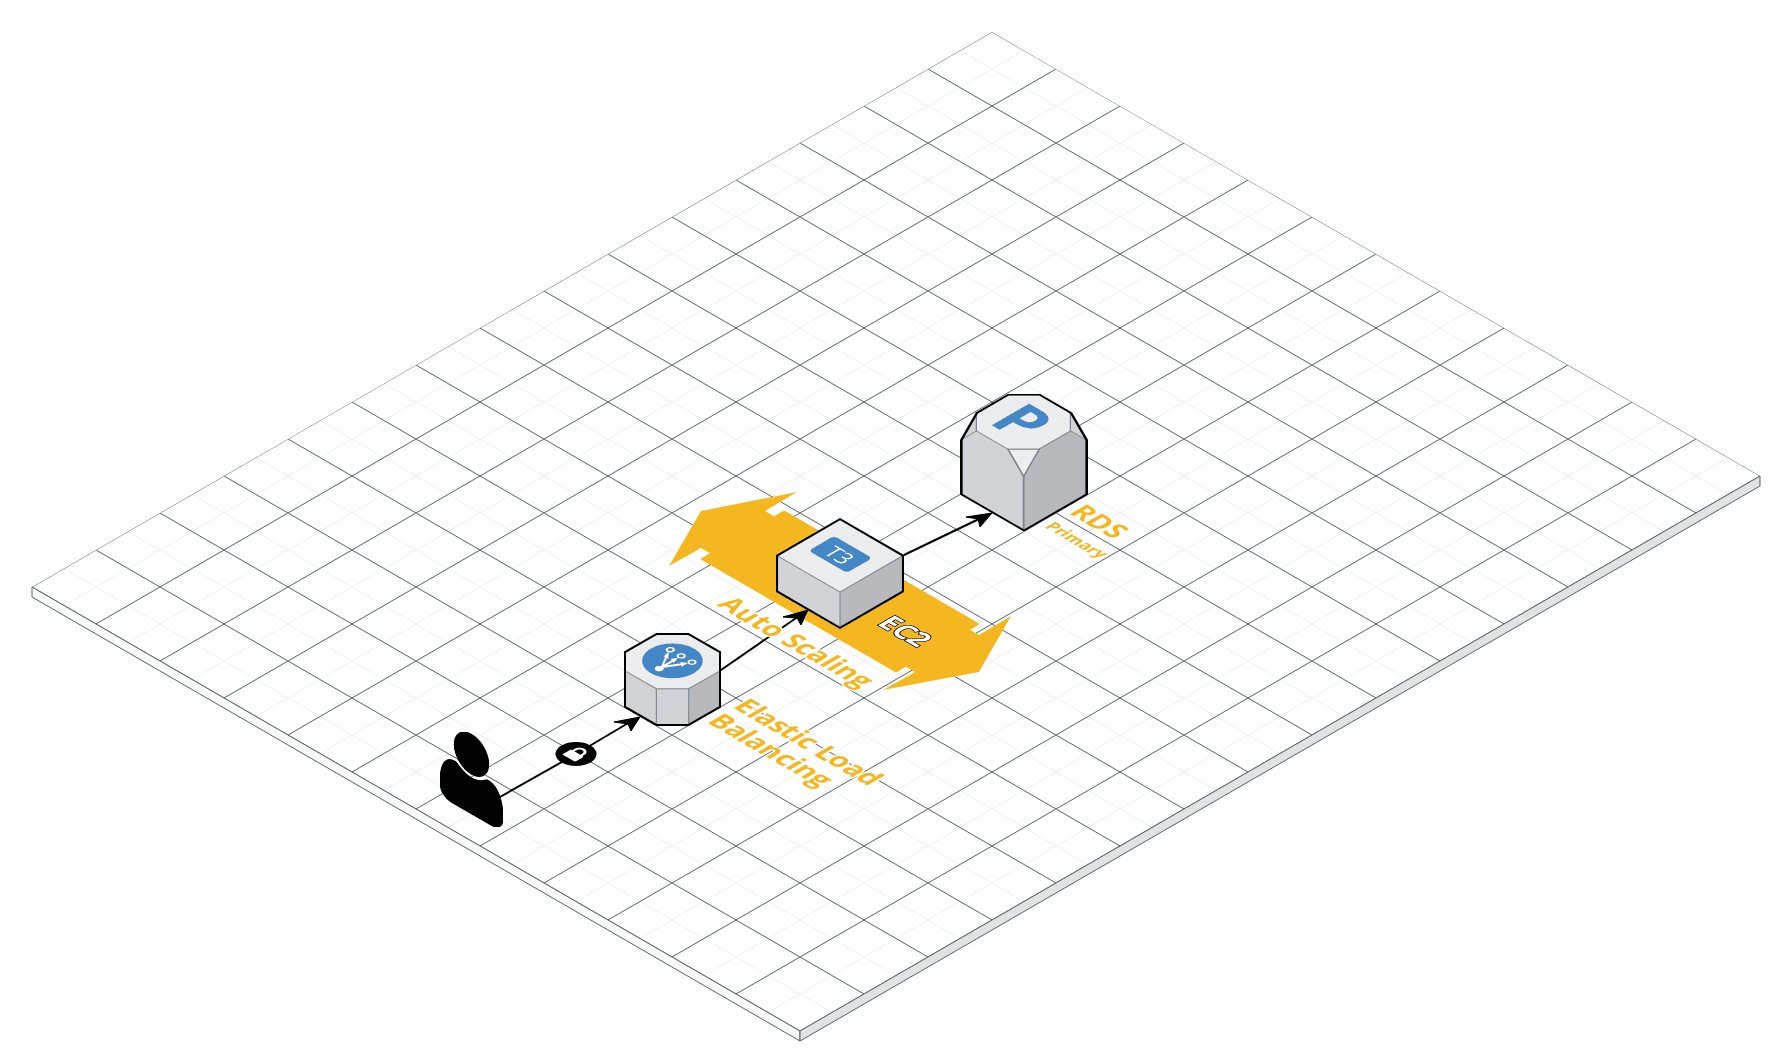
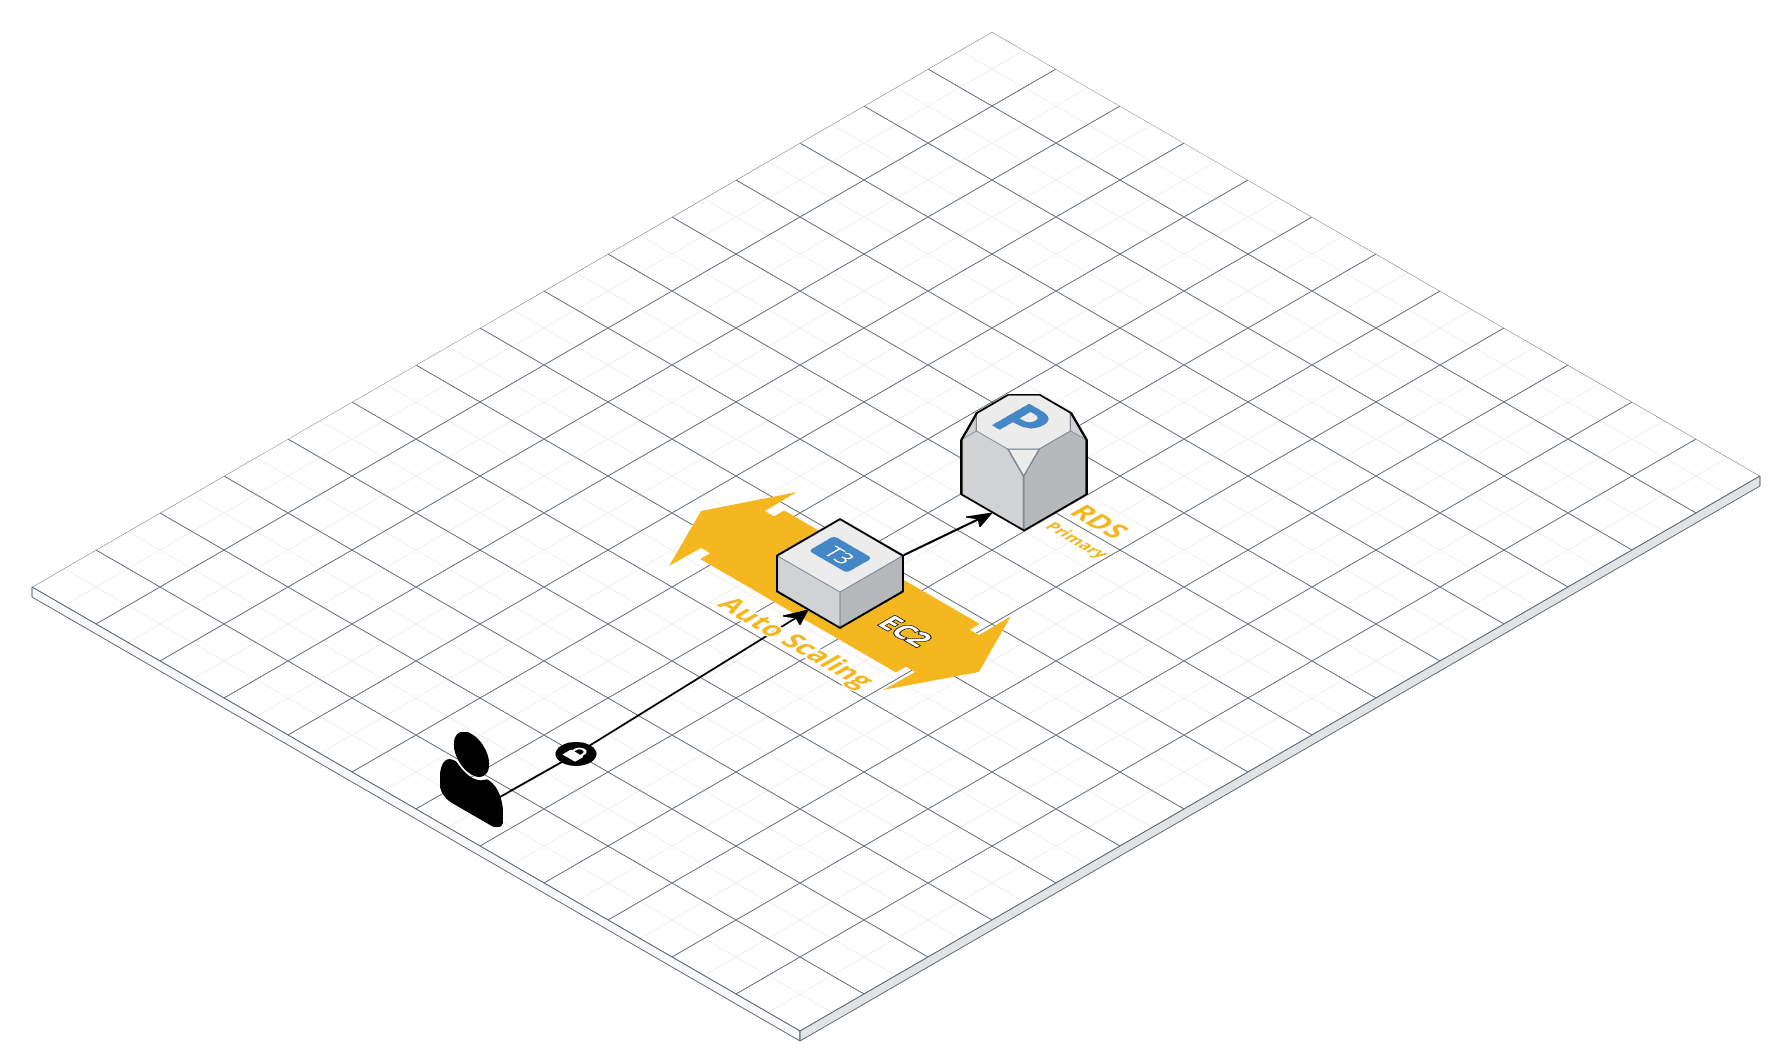
README.md

Changed region(s): [[0.3438, 0.5898, 0.5, 0.7451]]

diff --git a/README.md b/README.md
@@ -18,5 +18,12 @@ Architecture:
 #### Small app (100 reqs/day)
 ![](stonks-small.png)
 
+#### Bottlenecks
+- Single DB instance
+- Single Availability Zone
+- Single app instance
+- No Load-balancing
+
 #### Large app (900M reqs/day)
 ![](stonks-large.png)
+
